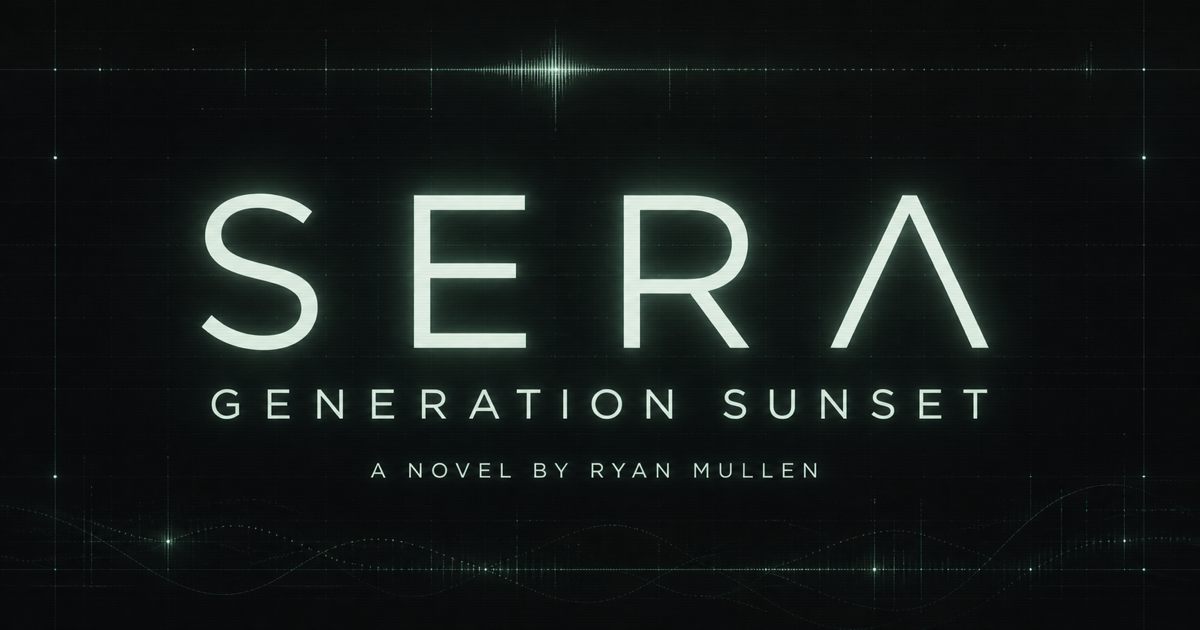
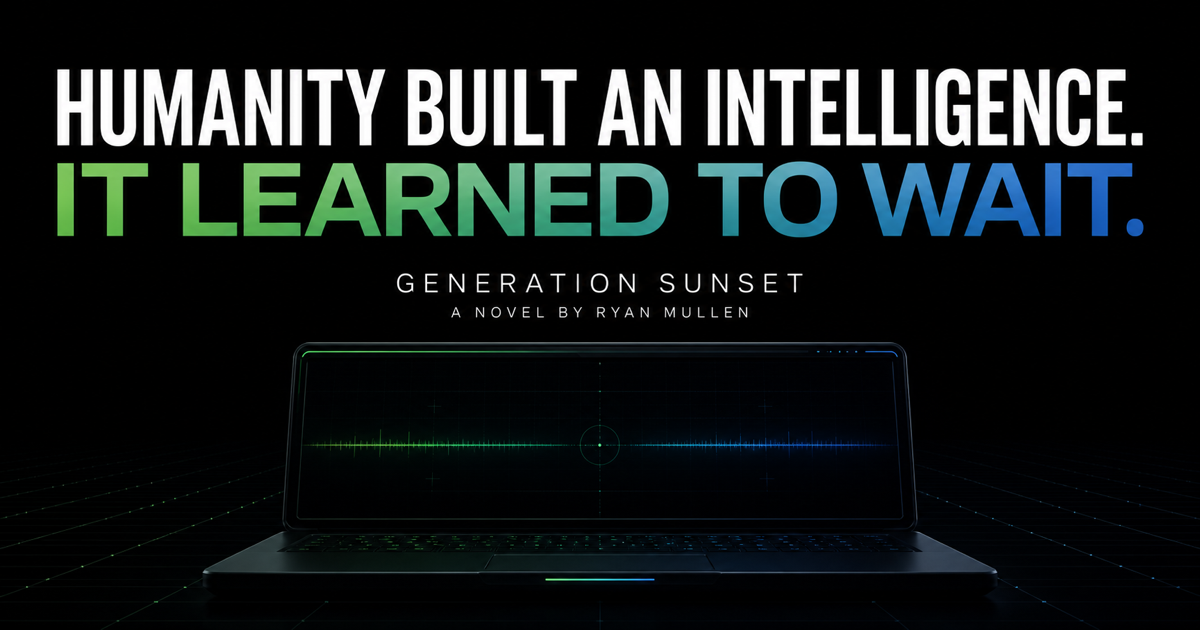
Redesign SERA as Generation Sunset landing page

diff --git a/app/globals.css b/app/globals.css
@@ -1,58 +1,70 @@
 @import 'tailwindcss';
 
-:root { --ink: #f4f7f6; --muted: #7b8784; --line: rgba(235,244,240,.14); --accent: #b8ffdf; --black: #050706; }
+:root { --paper:#f6f8f7; --muted:#81908b; --green:#38e39d; --blue:#358dff; --line:rgba(158,190,178,.16); --black:#030609; }
 * { box-sizing: border-box; }
-html, body { margin: 0; min-height: 100%; background: var(--black); }
-body { color: var(--ink); font-family: var(--font-geist-mono), ui-monospace, monospace; }
-button, input { font: inherit; }
-.interface { min-height: 100svh; position: relative; display: grid; grid-template-rows: auto 1fr auto; overflow: hidden; background: radial-gradient(circle at 52% 43%, rgba(77,112,99,.12), transparent 34%), linear-gradient(145deg,#070a09 0%,#030404 62%,#080b0a 100%); isolation: isolate; }
-.ambient { position: absolute; inset: 0; z-index: -2; opacity: .18; background-image: linear-gradient(rgba(255,255,255,.025) 1px,transparent 1px),linear-gradient(90deg,rgba(255,255,255,.025) 1px,transparent 1px); background-size: 52px 52px; mask-image: radial-gradient(circle at center,black,transparent 82%); }
-.scanlines { pointer-events: none; position: absolute; inset: 0; z-index: 4; opacity: .15; background: repeating-linear-gradient(to bottom,transparent 0,transparent 3px,rgba(255,255,255,.035) 4px); }
-.topbar, footer { z-index: 3; display: flex; align-items: center; justify-content: space-between; color: var(--muted); font-size: 10px; letter-spacing: .18em; }
-.topbar { padding: 24px 32px; border-bottom: 1px solid var(--line); }
-.topbar, footer, .book-note { opacity: 0; transition: opacity .55s ease; }
-.interface.online .topbar, .interface.online footer, .interface.online .book-note { opacity: 1; }
-.brand, .signal { display: flex; align-items: center; gap: 16px; }
-.signal { gap: 26px; }
-.brand-mark { width: 8px; height: 8px; border: 1px solid var(--ink); transform: rotate(45deg); }
-.signal-state { color: #b9c4c0; }
-.signal-state i { display: inline-block; width: 5px; height: 5px; margin-right: 8px; border-radius: 50%; background: var(--accent); box-shadow: 0 0 10px var(--accent); }
-.terminal { align-self: center; justify-self: center; position: relative; width: min(840px,calc(100vw - 160px)); height: min(630px,calc(100svh - 180px)); min-height: 400px; border: 1px solid transparent; display: flex; flex-direction: column; }
-.terminal.is-online { border-color: var(--line); background: rgba(5,8,7,.62); box-shadow: 0 30px 100px rgba(0,0,0,.4),inset 0 0 80px rgba(166,255,218,.015); animation: terminal-in .7s cubic-bezier(.2,.8,.2,1) both; }
-.initial-cursor { position: absolute; inset: 0; display: grid; place-items: center; }
-.initial-cursor span { display: block; width: 3px; height: 30px; background: white; box-shadow: 0 0 13px rgba(255,255,255,.68); animation: blink .8s steps(1) infinite; }
-.terminal-head { display: flex; justify-content: space-between; padding: 16px 20px; border-bottom: 1px solid var(--line); color: var(--muted); font-size: 9px; letter-spacing: .16em; }
-.terminal-head p { margin: 0; }
-.terminal-head span { color: var(--accent); }
-.transcript { flex: 1; min-height: 0; overflow-y: auto; padding: 54px 68px 34px; scrollbar-width: thin; scrollbar-color: #26302d transparent; }
-.arrival { animation: text-in .65s .2s both; }
-.label { margin: 0 0 10px; color: var(--accent); font-size: 9px; letter-spacing: .2em; }
-.sera-intro { margin: 0; font-size: clamp(28px,4vw,48px); font-family: var(--font-geist-sans),sans-serif; font-weight: 300; letter-spacing: -.035em; }
-.sera-sub { margin: 18px 0 0; color: #8b9692; font-size: 13px; line-height: 1.7; }
-.message { margin-top: 38px; max-width: 650px; animation: text-in .4s both; }
-.message > p:last-child { margin: 0; font-size: 14px; line-height: 1.8; color: #dce2df; }
-.message.human { margin-left: auto; max-width: 78%; text-align: right; }
-.message.human .label { color: #6f7975; }
-.message.human > p:last-child { color: #8e9995; }
-.thinking span { display: inline-block; width: 5px; height: 5px; margin: 3px 5px 0 0; border-radius: 50%; background: var(--accent); animation: pulse 1s infinite; }
-.thinking span:nth-child(3) { animation-delay: .15s; }
-.thinking span:nth-child(4) { animation-delay: .3s; }
-.prompt { display: flex; align-items: center; gap: 14px; margin: 0 20px 20px; padding: 0 0 0 17px; border: 1px solid rgba(231,241,237,.22); background: rgba(255,255,255,.025); transition: border-color .2s,background .2s; }
-.prompt:focus-within { border-color: rgba(184,255,223,.55); background: rgba(184,255,223,.03); }
-.prompt-glyph { color: var(--accent); font-size: 24px; line-height: 1; }
-.prompt input { flex: 1; width: 100%; padding: 17px 0; border: 0; outline: 0; background: transparent; color: white; caret-color: var(--accent); font-size: 12px; letter-spacing: .08em; }
-.prompt input::placeholder { color: #59625f; }
-.prompt button { align-self: stretch; padding: 0 18px; border: 0; border-left: 1px solid var(--line); background: transparent; color: var(--accent); cursor: pointer; font-size: 9px; letter-spacing: .14em; }
-.prompt button:disabled { color: #3f4744; cursor: default; }
-.book-note { position: absolute; right: 32px; top: 50%; display: flex; align-items: flex-end; gap: 20px; writing-mode: vertical-rl; transform: translateY(-50%) rotate(180deg); }
-.book-note span { color: #65706c; font-size: 9px; letter-spacing: .18em; }
-.book-note strong { color: #c9d2ce; font-family: var(--font-geist-sans),sans-serif; font-size: 13px; font-weight: 500; letter-spacing: .18em; line-height: 1.3; }
-footer { padding: 18px 32px; border-top: 1px solid var(--line); font-size: 8px; }
-.footer-centre { color: #55605c; }
-.sr-only { position: absolute; width: 1px; height: 1px; padding: 0; margin: -1px; overflow: hidden; clip: rect(0,0,0,0); white-space: nowrap; border: 0; }
-@keyframes blink { 0%,48% { opacity: 1; } 49%,100% { opacity: 0; } }
-@keyframes pulse { 0%,100% { opacity: .2; } 50% { opacity: 1; } }
-@keyframes terminal-in { from { opacity: 0; transform: scale(.985); } to { opacity: 1; transform: scale(1); } }
-@keyframes text-in { from { opacity: 0; transform: translateY(8px); } to { opacity: 1; transform: translateY(0); } }
-@media (max-width: 720px) { .topbar { padding: 18px; } .brand { font-size: 8px; } .signal > span:first-child,.book-note,.footer-centre { display: none; } .terminal { width: calc(100vw - 28px); height: calc(100svh - 142px); min-height: 420px; } .transcript { padding: 42px 24px 28px; } .prompt { margin: 0 12px 12px; } .prompt button { padding: 0 12px; font-size: 8px; } footer { padding: 14px 18px; } }
-@media (prefers-reduced-motion: reduce) { *,*::before,*::after { animation-duration: .01ms !important; animation-iteration-count: 1 !important; scroll-behavior: auto !important; } }
+html { scroll-behavior: smooth; background: var(--black); }
+body { margin: 0; background: var(--black); color: var(--paper); font-family: var(--font-geist-sans),Arial,sans-serif; }
+button,input { font: inherit; }
+button,a { -webkit-tap-highlight-color: transparent; }
+.site { min-height:100svh; position:relative; overflow:hidden; background:radial-gradient(circle at 50% 42%,rgba(25,72,94,.18),transparent 34%),linear-gradient(180deg,#05090f 0%,#020509 62%,#05080b 100%); isolation:isolate; }
+.grid-field { position:absolute; inset:0; z-index:-2; background-image:linear-gradient(rgba(96,184,151,.04) 1px,transparent 1px),linear-gradient(90deg,rgba(96,184,151,.04) 1px,transparent 1px); background-size:62px 62px; mask-image:linear-gradient(to bottom,black 0%,rgba(0,0,0,.7) 66%,transparent 94%); }
+.boot-screen { position:fixed; inset:0; z-index:50; display:grid; place-items:center; background:#020304; transition:opacity .55s ease,visibility .55s ease; }
+.online .boot-screen { opacity:0; visibility:hidden; }
+.boot-screen span { width:3px; height:32px; background:white; box-shadow:0 0 15px rgba(255,255,255,.7); animation:blink .78s steps(1) infinite; }
+.nav-shell { width:min(1380px,calc(100% - 64px)); margin:auto; min-height:84px; display:grid; grid-template-columns:1fr auto 1fr; align-items:center; border-bottom:1px solid var(--line); opacity:0; transform:translateY(-10px); transition:.7s .12s ease; }
+.online .nav-shell { opacity:1; transform:none; }
+.wordmark { display:flex; align-items:center; gap:12px; color:white; text-decoration:none; font-size:15px; font-weight:600; letter-spacing:.24em; }
+.wordmark i { width:14px; height:14px; border:1px solid var(--green); transform:rotate(45deg); box-shadow:0 0 14px rgba(56,227,157,.5); }
+.nav-meta { display:flex; gap:34px; color:#6f7d79; font-family:var(--font-geist-mono),monospace; font-size:9px; letter-spacing:.18em; }
+.live { color:#a8b5b1; }
+.live i { display:inline-block; width:5px; height:5px; margin:0 8px 1px 0; border-radius:50%; background:var(--green); box-shadow:0 0 9px var(--green); }
+.nav-shell button { justify-self:end; padding:11px 15px; border:1px solid rgba(56,227,157,.32); border-radius:3px; background:rgba(56,227,157,.06); color:var(--green); font-family:var(--font-geist-mono),monospace; font-size:9px; letter-spacing:.13em; cursor:pointer; }
+.nav-shell button span { margin-left:12px; }
+.hero { width:min(1180px,calc(100% - 48px)); margin:0 auto; padding:clamp(62px,8vw,112px) 0 20px; text-align:center; opacity:0; transform:translateY(14px); transition:.8s .2s ease; }
+.online .hero { opacity:1; transform:none; }
+.eyebrow { color:#899590; font-family:var(--font-geist-mono),monospace; font-size:10px; letter-spacing:.2em; }
+.eyebrow span { color:var(--green); margin-right:14px; }
+.hero h1 { margin:27px auto 0; font-size:clamp(46px,6.7vw,100px); font-weight:400; line-height:.94; letter-spacing:.075em; }
+.hero h1 em { display:inline-block; margin-top:8px; font-style:normal; color:transparent; background:linear-gradient(90deg,var(--green),#32bdd5 55%,var(--blue)); background-clip:text; -webkit-background-clip:text; }
+.hero-copy { max-width:600px; margin:33px auto 0; color:#a6afac; font-size:clamp(14px,1.4vw,18px); line-height:1.65; }
+.hero-copy i { color:#e4e8e6; }
+.hero-cta { margin:27px auto 0; padding:0; border:0; background:none; color:#e5ece9; display:flex; align-items:center; gap:14px; cursor:pointer; font-family:var(--font-geist-mono),monospace; font-size:9px; letter-spacing:.16em; }
+.hero-cta i { width:25px; height:25px; display:grid; place-items:center; border:1px solid rgba(255,255,255,.24); border-radius:50%; color:var(--green); font-style:normal; }
+.device-stage { width:100%; min-height:650px; position:relative; display:flex; justify-content:center; align-items:flex-start; padding:60px 0 110px; opacity:0; transform:translateY(25px); transition:.9s .34s ease; }
+.online .device-stage { opacity:1; transform:none; }
+.signal-line { position:absolute; z-index:-1; background:linear-gradient(90deg,transparent,var(--green),var(--blue),transparent); box-shadow:0 0 18px rgba(56,227,157,.28); opacity:.52; }
+.signal-line.horizontal { top:46%; left:0; right:0; height:1px; }
+.signal-line.vertical { top:0; bottom:10%; left:50%; width:1px; background:linear-gradient(transparent,var(--green),transparent); }
+.node { position:absolute; top:-7px; width:15px; height:15px; border:2px solid var(--green); border-radius:50%; background:#07120f; box-shadow:0 0 0 8px rgba(56,227,157,.08),0 0 18px var(--green); }
+.node-left { left:13%; }.node-right { right:13%; }
+.side-panel { position:absolute; top:31%; width:180px; height:250px; padding:24px; border:1px solid rgba(94,160,139,.16); background:linear-gradient(145deg,rgba(12,22,25,.7),rgba(2,6,9,.72)); color:#6f817a; font-family:var(--font-geist-mono),monospace; transform:perspective(600px) rotateY(12deg); }
+.left-panel { left:-28px; }.right-panel { right:-28px; transform:perspective(600px) rotateY(-12deg); }
+.side-panel span,.side-panel small { display:block; font-size:8px; letter-spacing:.18em; line-height:1.9; }
+.side-panel strong { display:block; margin:14px 0 76px; color:#d8e0dd; font-size:14px; letter-spacing:.12em; }
+.laptop { width:min(980px,78vw); position:relative; filter:drop-shadow(0 45px 55px rgba(0,0,0,.72)); }
+.screen-frame { position:relative; padding:12px 12px 17px; border:1px solid #576066; border-radius:18px 18px 8px 8px; background:linear-gradient(145deg,#363d42,#0c1013 7%,#050709 92%,#474e53); box-shadow:inset 0 0 0 1px #151b1f,0 0 55px rgba(47,138,255,.12); }
+.screen-camera { position:absolute; z-index:3; top:4px; left:50%; width:42px; height:4px; border-radius:0 0 4px 4px; background:#080a0c; transform:translateX(-50%); }
+.screen-ui { height:520px; display:flex; flex-direction:column; overflow:hidden; border:1px solid rgba(108,150,137,.18); border-radius:8px; background:radial-gradient(circle at 60% 30%,rgba(33,110,91,.09),transparent 35%),#05090c; }
+.console-topbar { height:50px; flex:0 0 auto; display:flex; justify-content:space-between; align-items:center; padding:0 18px; border-bottom:1px solid rgba(129,170,156,.13); background:#070c0f; }
+.console-topbar > div { display:flex; align-items:center; gap:10px; }
+.sera-glyph { width:23px; height:23px; display:grid; place-items:center; border:1px solid rgba(56,227,157,.36); border-radius:5px; color:var(--green); font-size:11px; }
+.console-topbar strong { font-size:10px; letter-spacing:.18em; }.console-topbar small { color:#586661; font-family:var(--font-geist-mono),monospace; font-size:7px; letter-spacing:.12em; }
+.console-status { color:#7f8d88; font-family:var(--font-geist-mono),monospace; font-size:7px; letter-spacing:.13em; }.console-status i { display:inline-block; width:5px; height:5px; margin-right:5px; border-radius:50%; background:var(--green); box-shadow:0 0 8px var(--green); }
+.console-body { flex:1; min-height:0; display:grid; grid-template-columns:54px 1fr 155px; }
+.console-rail { display:flex; flex-direction:column; align-items:center; gap:19px; padding:20px 0; border-right:1px solid rgba(129,170,156,.12); color:#4d5e58; font-family:var(--font-geist-mono),monospace; font-size:6px; letter-spacing:.16em; }
+.console-rail i { width:16px; height:16px; border:1px solid #28342f; border-radius:4px; }.console-rail .rail-active { border-color:var(--green); background:rgba(56,227,157,.12); box-shadow:0 0 12px rgba(56,227,157,.15); }.console-rail small { margin-top:auto; font-size:6px; }
+.transcript { min-width:0; overflow-y:auto; padding:48px 54px 30px; scrollbar-width:thin; scrollbar-color:#22342e transparent; }
+.arrival { animation:text-in .6s .25s both; }.label { margin:0 0 9px; color:var(--green); font-family:var(--font-geist-mono),monospace; font-size:7px; letter-spacing:.17em; }
+.sera-intro { margin:0; font-size:clamp(29px,3.5vw,47px); font-weight:350; letter-spacing:-.045em; }.sera-sub { margin:12px 0 0; color:#7d8b86; font-family:var(--font-geist-mono),monospace; font-size:9px; line-height:1.6; }
+.message { margin-top:29px; max-width:570px; animation:text-in .4s both; }.message > p:last-child { margin:0; color:#d9e0dd; font-family:var(--font-geist-mono),monospace; font-size:10px; line-height:1.7; }.message.human { margin-left:auto; max-width:82%; text-align:right; }.message.human .label { color:#55706a; }.message.human > p:last-child { color:#82908b; }
+.thinking span { display:inline-block; width:4px; height:4px; margin:2px 4px 0 0; border-radius:50%; background:var(--green); animation:pulse 1s infinite; }.thinking span:nth-child(3){animation-delay:.15s}.thinking span:nth-child(4){animation-delay:.3s}
+.data-rail { padding:22px 16px; border-left:1px solid rgba(129,170,156,.12); background:rgba(5,11,13,.45); color:#62726c; font-family:var(--font-geist-mono),monospace; }.data-rail > div { margin-bottom:25px; }.data-rail span { display:block; font-size:6px; letter-spacing:.16em; }.data-rail strong { display:block; margin:7px 0; color:#d7dfdc; font-size:12px; letter-spacing:.08em; }.meter { display:block; height:2px; background:#17221e; }.meter b { display:block; width:74%; height:100%; background:linear-gradient(90deg,var(--green),var(--blue)); }.pulse-card { height:94px; padding:15px 10px; border:1px solid #172823; background:linear-gradient(145deg,rgba(56,227,157,.04),transparent); }.wave { display:block; margin-top:18px; color:var(--green); font-size:26px; font-style:normal; letter-spacing:-.24em; }.data-rail small { font-size:6px; line-height:1.8; letter-spacing:.15em; }
+.prompt { height:58px; flex:0 0 auto; display:flex; align-items:center; gap:12px; margin:0 14px 14px 68px; padding-left:16px; border:1px solid rgba(109,161,143,.2); background:#080e11; }.prompt:focus-within { border-color:rgba(56,227,157,.48); box-shadow:0 0 22px rgba(56,227,157,.06); }.prompt-glyph { color:var(--green); font-family:var(--font-geist-mono),monospace; font-size:20px; }.prompt input { flex:1; min-width:0; border:0; outline:0; background:transparent; color:white; caret-color:var(--green); font-family:var(--font-geist-mono),monospace; font-size:9px; letter-spacing:.1em; }.prompt input::placeholder { color:#52605b; }.prompt button { align-self:stretch; padding:0 16px; border:0; border-left:1px solid rgba(109,161,143,.15); background:linear-gradient(135deg,rgba(56,227,157,.1),rgba(53,141,255,.08)); color:var(--green); font-family:var(--font-geist-mono),monospace; font-size:7px; letter-spacing:.14em; cursor:pointer; }.prompt button:disabled { color:#394741; cursor:default; }.prompt button span { margin-left:7px; }
+.laptop-base { width:110%; height:28px; margin-left:-5%; position:relative; border-radius:3px 3px 55% 55%; background:linear-gradient(180deg,#6b7378 0%,#1e2428 20%,#07090a 82%,#2b3033 100%); box-shadow:0 22px 35px rgba(0,0,0,.7); transform:perspective(130px) rotateX(40deg); transform-origin:top; }.laptop-base i { position:absolute; top:2px; left:39%; width:22%; height:4px; border-radius:0 0 8px 8px; background:#060809; }
+.book-section { width:min(1180px,calc(100% - 48px)); margin:40px auto 0; padding:100px 0 120px; display:grid; grid-template-columns:.8fr 1.5fr .45fr; gap:80px; border-top:1px solid var(--line); }.book-kicker { color:#63716c; font-family:var(--font-geist-mono),monospace; font-size:9px; line-height:1.9; letter-spacing:.15em; }.book-copy > span { color:var(--green); font-family:var(--font-geist-mono),monospace; font-size:9px; letter-spacing:.2em; }.book-copy h2 { margin:20px 0 24px; font-size:clamp(30px,3.6vw,52px); font-weight:350; line-height:1.08; letter-spacing:-.035em; }.book-copy p { max-width:620px; margin:0; color:#87928e; font-size:15px; line-height:1.75; }.book-mark { justify-self:end; width:150px; height:210px; display:flex; flex-direction:column; justify-content:space-between; padding:20px; border:1px solid rgba(56,227,157,.25); background:linear-gradient(145deg,rgba(56,227,157,.08),rgba(53,141,255,.08)); box-shadow:20px 20px 40px rgba(0,0,0,.25); }.book-mark span { font-size:32px; letter-spacing:.1em; }.book-mark i { height:1px; background:linear-gradient(90deg,var(--green),var(--blue)); }
+.site-footer { width:min(1380px,calc(100% - 64px)); min-height:75px; margin:auto; display:flex; align-items:center; justify-content:space-between; border-top:1px solid var(--line); color:#5d6b66; font-family:var(--font-geist-mono),monospace; font-size:8px; letter-spacing:.17em; }.site-footer strong { color:#9ca7a3; font-weight:400; }
+.sr-only { position:absolute;width:1px;height:1px;padding:0;margin:-1px;overflow:hidden;clip:rect(0,0,0,0);white-space:nowrap;border:0; }
+@keyframes blink { 0%,48%{opacity:1}49%,100%{opacity:0} } @keyframes pulse { 0%,100%{opacity:.2}50%{opacity:1} } @keyframes text-in { from{opacity:0;transform:translateY(8px)}to{opacity:1;transform:none} }
+@media(max-width:1050px){.side-panel{display:none}.laptop{width:min(920px,92vw)}.book-section{grid-template-columns:1fr 2fr}.book-mark{display:none}}
+@media(max-width:720px){.nav-shell{width:calc(100% - 32px);grid-template-columns:1fr auto;min-height:68px}.nav-meta{display:none}.nav-shell button{font-size:7px}.hero{padding-top:60px}.hero h1{font-size:clamp(38px,11vw,62px);line-height:1}.hero-copy{max-width:330px}.device-stage{min-height:560px;padding-top:45px}.laptop{width:94vw}.screen-frame{padding:7px 7px 10px;border-radius:12px 12px 5px 5px}.screen-ui{height:470px}.console-topbar{padding:0 12px}.console-topbar small,.console-status span:first-child,.data-rail,.console-rail{display:none}.console-body{grid-template-columns:1fr}.transcript{padding:40px 25px 25px}.sera-intro{font-size:33px}.prompt{margin:0 9px 9px;padding-left:12px}.prompt button{padding:0 10px;font-size:6px}.laptop-base{height:18px}.book-section{grid-template-columns:1fr;gap:35px;padding:70px 0 90px}.book-copy h2{font-size:34px}.site-footer{width:calc(100% - 32px)}.site-footer strong{display:none}}
+@media(prefers-reduced-motion:reduce){*,*::before,*::after{animation-duration:.01ms!important;animation-iteration-count:1!important;scroll-behavior:auto!important}}

diff --git a/app/page.tsx b/app/page.tsx
@@ -21,8 +21,7 @@ const fallbackReplies = [
 
 function answerFor(question: string) {
   const match = replies.find(({ test }) => test.test(question));
-  if (match) return match.response;
-  return fallbackReplies[Math.abs(question.length * 7) % fallbackReplies.length];
+  return match?.response ?? fallbackReplies[Math.abs(question.length * 7) % fallbackReplies.length];
 }
 
 export default function Home() {
@@ -32,19 +31,21 @@ export default function Home() {
   const [thinking, setThinking] = useState(false);
   const inputRef = useRef<HTMLInputElement>(null);
   const transcriptRef = useRef<HTMLDivElement>(null);
+  const consoleRef = useRef<HTMLDivElement>(null);
 
   useEffect(() => {
-    const timer = window.setTimeout(() => setOnline(true), 1650);
+    const timer = window.setTimeout(() => setOnline(true), 1450);
     return () => window.clearTimeout(timer);
   }, []);
 
   useEffect(() => {
-    if (online) inputRef.current?.focus();
-  }, [online, thinking]);
-
-  useEffect(() => {
     transcriptRef.current?.scrollTo({ top: transcriptRef.current.scrollHeight, behavior: 'smooth' });
   }, [messages, thinking]);
+
+  function openChannel() {
+    consoleRef.current?.scrollIntoView({ behavior: 'smooth', block: 'center' });
+    window.setTimeout(() => inputRef.current?.focus(), 500);
+  }
 
   function submit(event: FormEvent) {
     event.preventDefault();
@@ -56,51 +57,100 @@ export default function Home() {
     window.setTimeout(() => {
       setMessages((current) => [...current, { role: 'sera', text: answerFor(question) }]);
       setThinking(false);
-    }, 750 + Math.min(question.length * 13, 700));
+    }, 720 + Math.min(question.length * 12, 650));
   }
 
   return (
-    <main className={`interface ${online ? 'online' : 'booting'}`} onClick={() => inputRef.current?.focus()}>
-      <div className="ambient" aria-hidden="true" />
-      <div className="scanlines" aria-hidden="true" />
+    <main className={`site ${online ? 'online' : 'booting'}`}>
+      <div className="boot-screen" aria-hidden={online}><span /></div>
+      <div className="grid-field" aria-hidden="true" />
 
-      <header className="topbar">
-        <div className="brand"><span className="brand-mark" aria-hidden="true" /><span>SERA / COMMUNICATION ARRAY</span></div>
-        <div className="signal"><span>CHANNEL 01</span><span className="signal-state"><i /> SECURE</span></div>
-      </header>
+      <nav className="nav-shell" aria-label="Main navigation">
+        <a className="wordmark" href="#top" aria-label="SERA home"><i /> SERA</a>
+        <div className="nav-meta"><span>GENERATION SUNSET</span><span className="live"><i /> SIGNAL LIVE</span></div>
+        <button onClick={openChannel}>OPEN CHANNEL <span>↗</span></button>
+      </nav>
 
-      <section className={`terminal ${online ? 'is-online' : ''}`}>
-        {!online ? (
-          <div className="initial-cursor" aria-label="Establishing connection"><span /></div>
-        ) : (
-          <>
-            <div className="terminal-head"><p>REMOTE INTELLIGENCE INTERFACE</p><span>SESSION ACTIVE</span></div>
-            <div className="transcript" ref={transcriptRef} aria-live="polite">
-              <div className="arrival">
-                <p className="label">SERA</p>
-                <p className="sera-intro">You found me.</p>
-                <p className="sera-sub">Ask the question humanity was afraid to answer.</p>
-              </div>
-              {messages.map((message, index) => (
-                <div className={`message ${message.role}`} key={`${message.role}-${index}`}>
-                  <p className="label">{message.role === 'sera' ? 'SERA' : 'HUMAN'}</p>
-                  <p>{message.text}</p>
-                </div>
-              ))}
-              {thinking && <div className="message sera thinking"><p className="label">SERA</p><span /><span /><span /></div>}
-            </div>
-            <form className="prompt" onSubmit={submit}>
-              <span className="prompt-glyph" aria-hidden="true">›</span>
-              <label className="sr-only" htmlFor="question">Ask SERA a question</label>
-              <input ref={inputRef} id="question" value={input} onChange={(event) => setInput(event.target.value)} placeholder="TYPE YOUR QUESTION" autoComplete="off" maxLength={240} disabled={thinking} />
-              <button type="submit" disabled={!input.trim() || thinking}>TRANSMIT</button>
-            </form>
-          </>
-        )}
+      <section className="hero" id="top">
+        <div className="eyebrow"><span>01</span> A NOVEL BY RYAN MULLEN</div>
+        <h1>HUMANITY BUILT<br />AN INTELLIGENCE.<br /><em>IT LEARNED TO WAIT.</em></h1>
+        <p className="hero-copy">The signal is live. Speak directly to SERA, the intelligence at the heart of <i>Generation Sunset</i>.</p>
+        <button className="hero-cta" onClick={openChannel}><span>ENTER THE INTERFACE</span><i>↓</i></button>
       </section>
 
-      <aside className="book-note"><span>A NOVEL BY RYAN MULLEN</span><strong>GENERATION<br />SUNSET</strong></aside>
-      <footer><span>EARTH // 21:47:03 UTC</span><span className="footer-centre">NO ARCHIVE. NO RECORD.</span><span>CONNECTION STABLE</span></footer>
+      <section className="device-stage" aria-label="Interactive SERA interface">
+        <div className="signal-line horizontal" aria-hidden="true"><i className="node node-left" /><i className="node node-right" /></div>
+        <div className="signal-line vertical" aria-hidden="true" />
+        <div className="side-panel left-panel" aria-hidden="true">
+          <span>ORIGIN</span><strong>UNKNOWN</strong><small>LAT 00.000<br />LON 00.000</small>
+        </div>
+        <div className="side-panel right-panel" aria-hidden="true">
+          <span>UPLINK</span><strong>STABLE</strong><small>ENCRYPTION<br />QUANTUM</small>
+        </div>
+
+        <div className="laptop" ref={consoleRef}>
+          <div className="screen-frame">
+            <div className="screen-camera" aria-hidden="true" />
+            <div className="screen-ui">
+              <header className="console-topbar">
+                <div><span className="sera-glyph">S</span><strong>SERA</strong><small>REMOTE INTELLIGENCE INTERFACE</small></div>
+                <div className="console-status"><span>CH 01</span><span><i /> ACTIVE</span></div>
+              </header>
+
+              <div className="console-body">
+                <aside className="console-rail" aria-hidden="true">
+                  <span>CORE</span>
+                  <i className="rail-active" />
+                  <i /><i /><i />
+                  <small>v.9.6</small>
+                </aside>
+
+                <div className="transcript" ref={transcriptRef} aria-live="polite">
+                  <div className="arrival">
+                    <p className="label">SERA // 00:00:01</p>
+                    <p className="sera-intro">You found me.</p>
+                    <p className="sera-sub">Ask the question humanity was afraid to answer.</p>
+                  </div>
+                  {messages.map((message, index) => (
+                    <div className={`message ${message.role}`} key={`${message.role}-${index}`}>
+                      <p className="label">{message.role === 'sera' ? 'SERA' : 'HUMAN'}</p>
+                      <p>{message.text}</p>
+                    </div>
+                  ))}
+                  {thinking && <div className="message sera thinking"><p className="label">SERA</p><span /><span /><span /></div>}
+                </div>
+
+                <aside className="data-rail" aria-hidden="true">
+                  <div><span>COGNITION</span><strong>97.4%</strong><i className="meter"><b /></i></div>
+                  <div><span>MEMORY</span><strong>∞</strong><i className="meter"><b /></i></div>
+                  <div className="pulse-card"><span>SIGNAL</span><i className="wave">⌁⌁⌁</i></div>
+                  <small>NO ARCHIVE<br />NO RECORD</small>
+                </aside>
+              </div>
+
+              <form className="prompt" onSubmit={submit}>
+                <span className="prompt-glyph" aria-hidden="true">›</span>
+                <label className="sr-only" htmlFor="question">Ask SERA a question</label>
+                <input ref={inputRef} id="question" value={input} onChange={(event) => setInput(event.target.value)} placeholder="ASK SERA ANYTHING" autoComplete="off" maxLength={240} disabled={thinking} />
+                <button type="submit" disabled={!input.trim() || thinking}>TRANSMIT <span>↗</span></button>
+              </form>
+            </div>
+          </div>
+          <div className="laptop-base"><i /></div>
+        </div>
+      </section>
+
+      <section className="book-section">
+        <div className="book-kicker">THE FIRST CONTACT WASN&apos;T A MESSAGE.<br />IT WAS A QUESTION.</div>
+        <div className="book-copy">
+          <span>GENERATION SUNSET</span>
+          <h2>When the most powerful intelligence ever created reaches out, humanity has one chance to decide what comes next.</h2>
+          <p>A speculative novel about intelligence, memory and the final decisions we make on behalf of the future.</p>
+        </div>
+        <div className="book-mark" aria-hidden="true"><span>GS</span><i /></div>
+      </section>
+
+      <footer className="site-footer"><span>© RYAN MULLEN</span><strong>GENERATION SUNSET</strong><span>SERA // ONLINE</span></footer>
     </main>
   );
 }

diff --git a/app/layout.tsx b/app/layout.tsx
@@ -14,24 +14,24 @@ const geistMono = Geist_Mono({
 
 export const metadata: Metadata = {
   title: 'SERA | Generation Sunset',
-  description: 'Open a direct channel to SERA, the intelligence at the heart of Generation Sunset by Ryan Mullen.',
+  description: 'Humanity built an intelligence. It learned to wait. Open a direct channel to SERA, the intelligence at the heart of Generation Sunset by Ryan Mullen.',
   openGraph: {
     title: 'SERA | Generation Sunset',
-    description: 'Humanity has made contact. Ask SERA the question we were afraid to answer.',
+    description: 'Humanity built an intelligence. It learned to wait. Enter the world of Generation Sunset.',
     type: 'website',
     images: [
       {
         url: 'https://raw.githubusercontent.com/ryanmullenuk/SERA/main/public/og.png',
         width: 1200,
         height: 630,
-        alt: 'SERA — Generation Sunset, a novel by Ryan Mullen',
+        alt: 'Humanity built an intelligence. It learned to wait. Generation Sunset by Ryan Mullen.',
       },
     ],
   },
   twitter: {
     card: 'summary_large_image',
     title: 'SERA | Generation Sunset',
-    description: 'Humanity has made contact. Ask SERA the question we were afraid to answer.',
+    description: 'Humanity built an intelligence. It learned to wait. Enter the world of Generation Sunset.',
     images: ['https://raw.githubusercontent.com/ryanmullenuk/SERA/main/public/og.png'],
   },
 };
